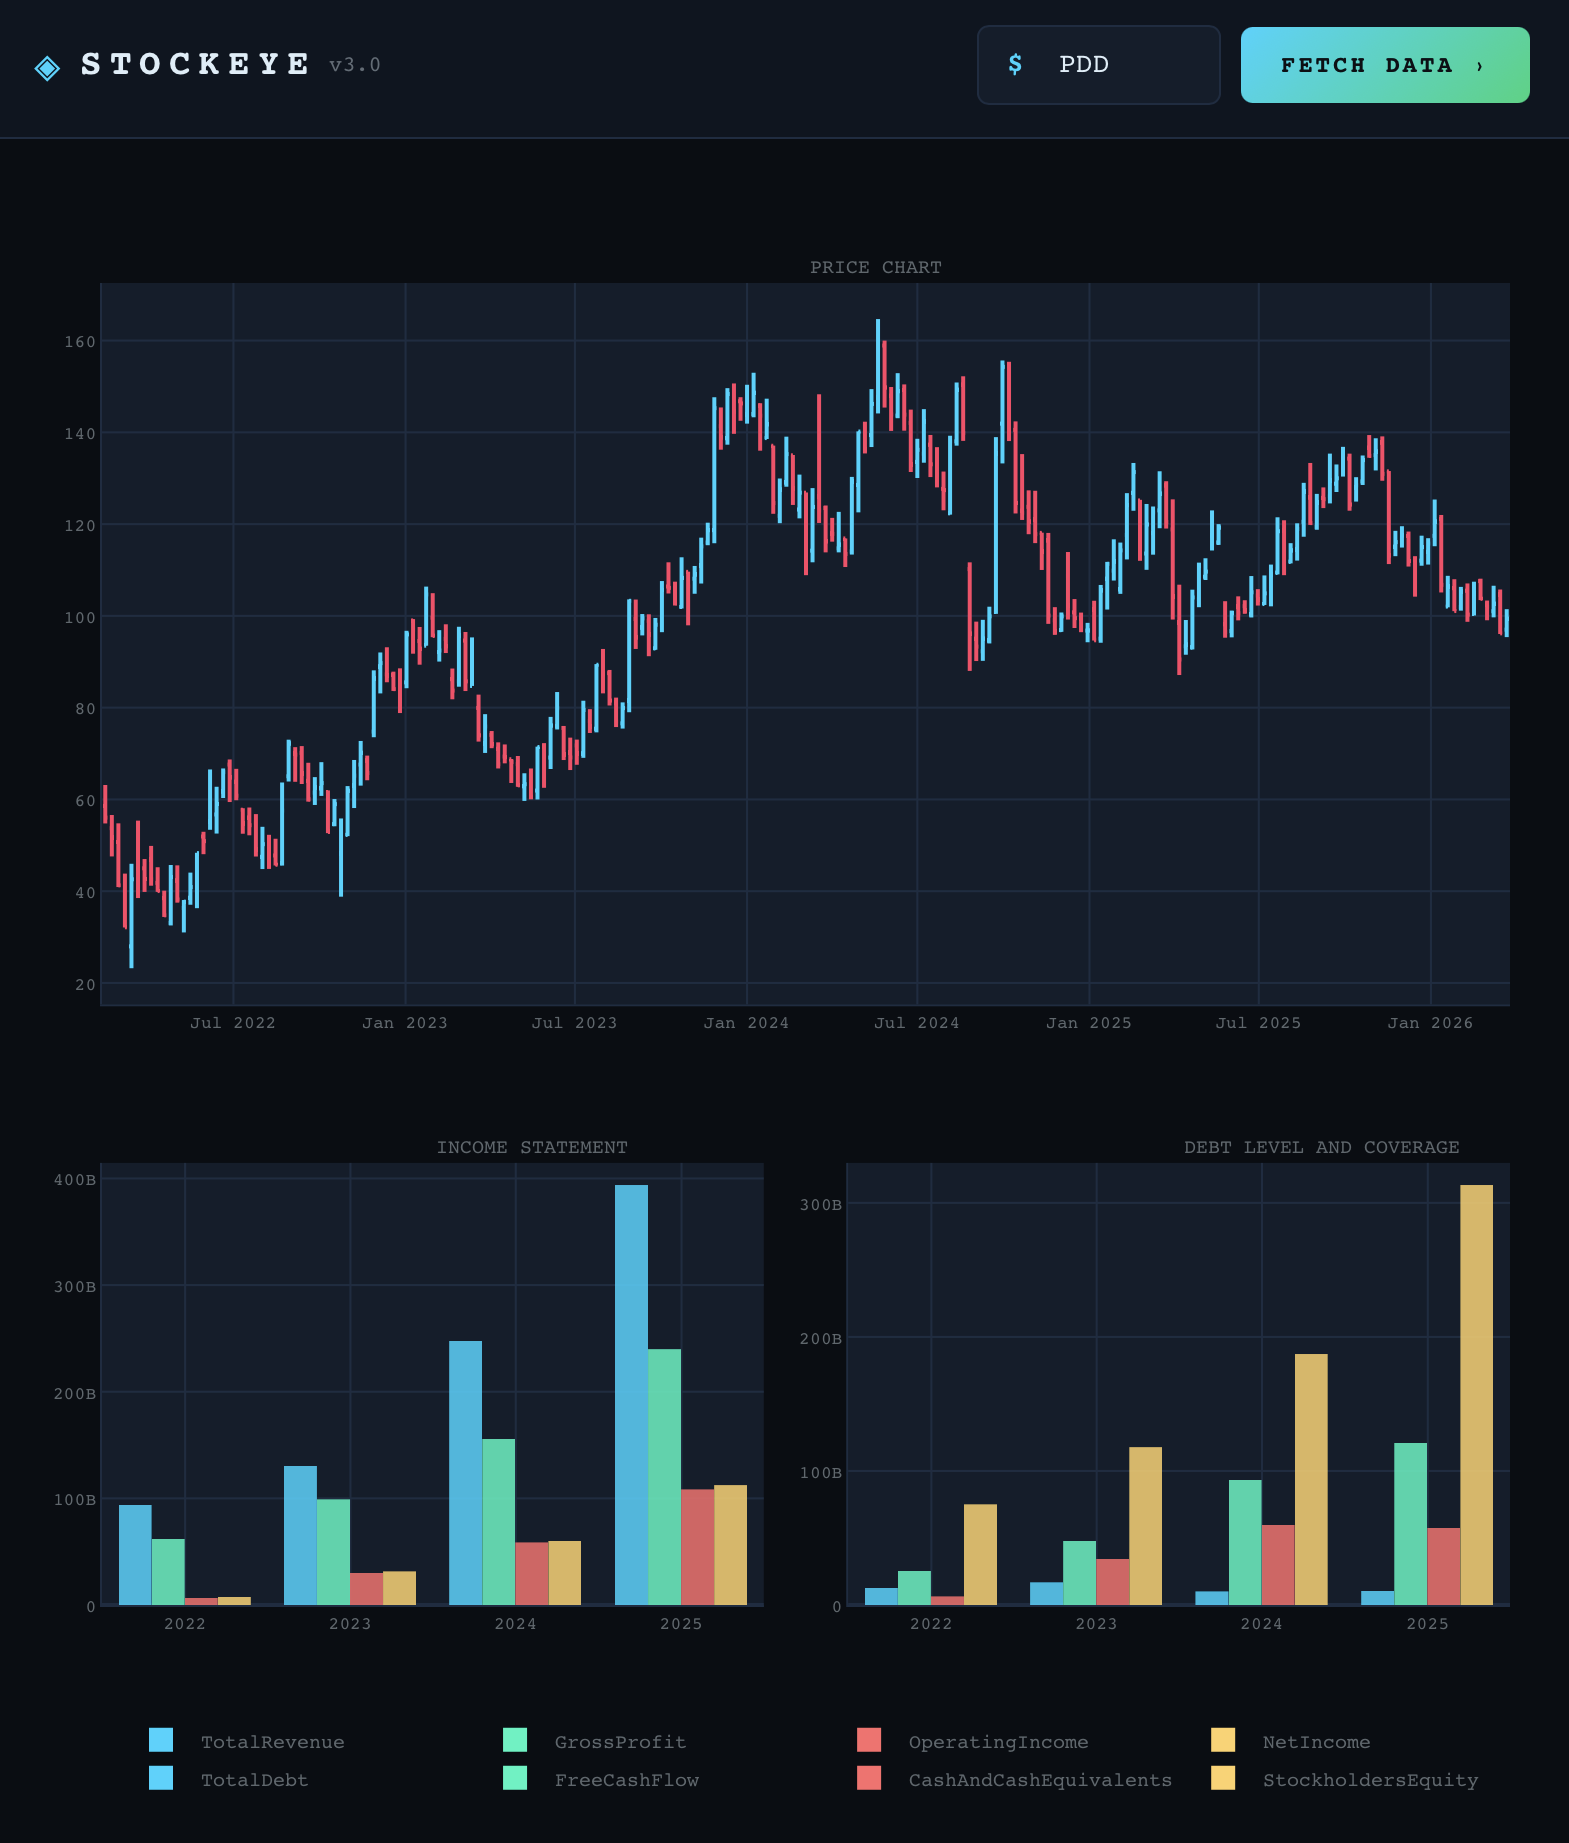
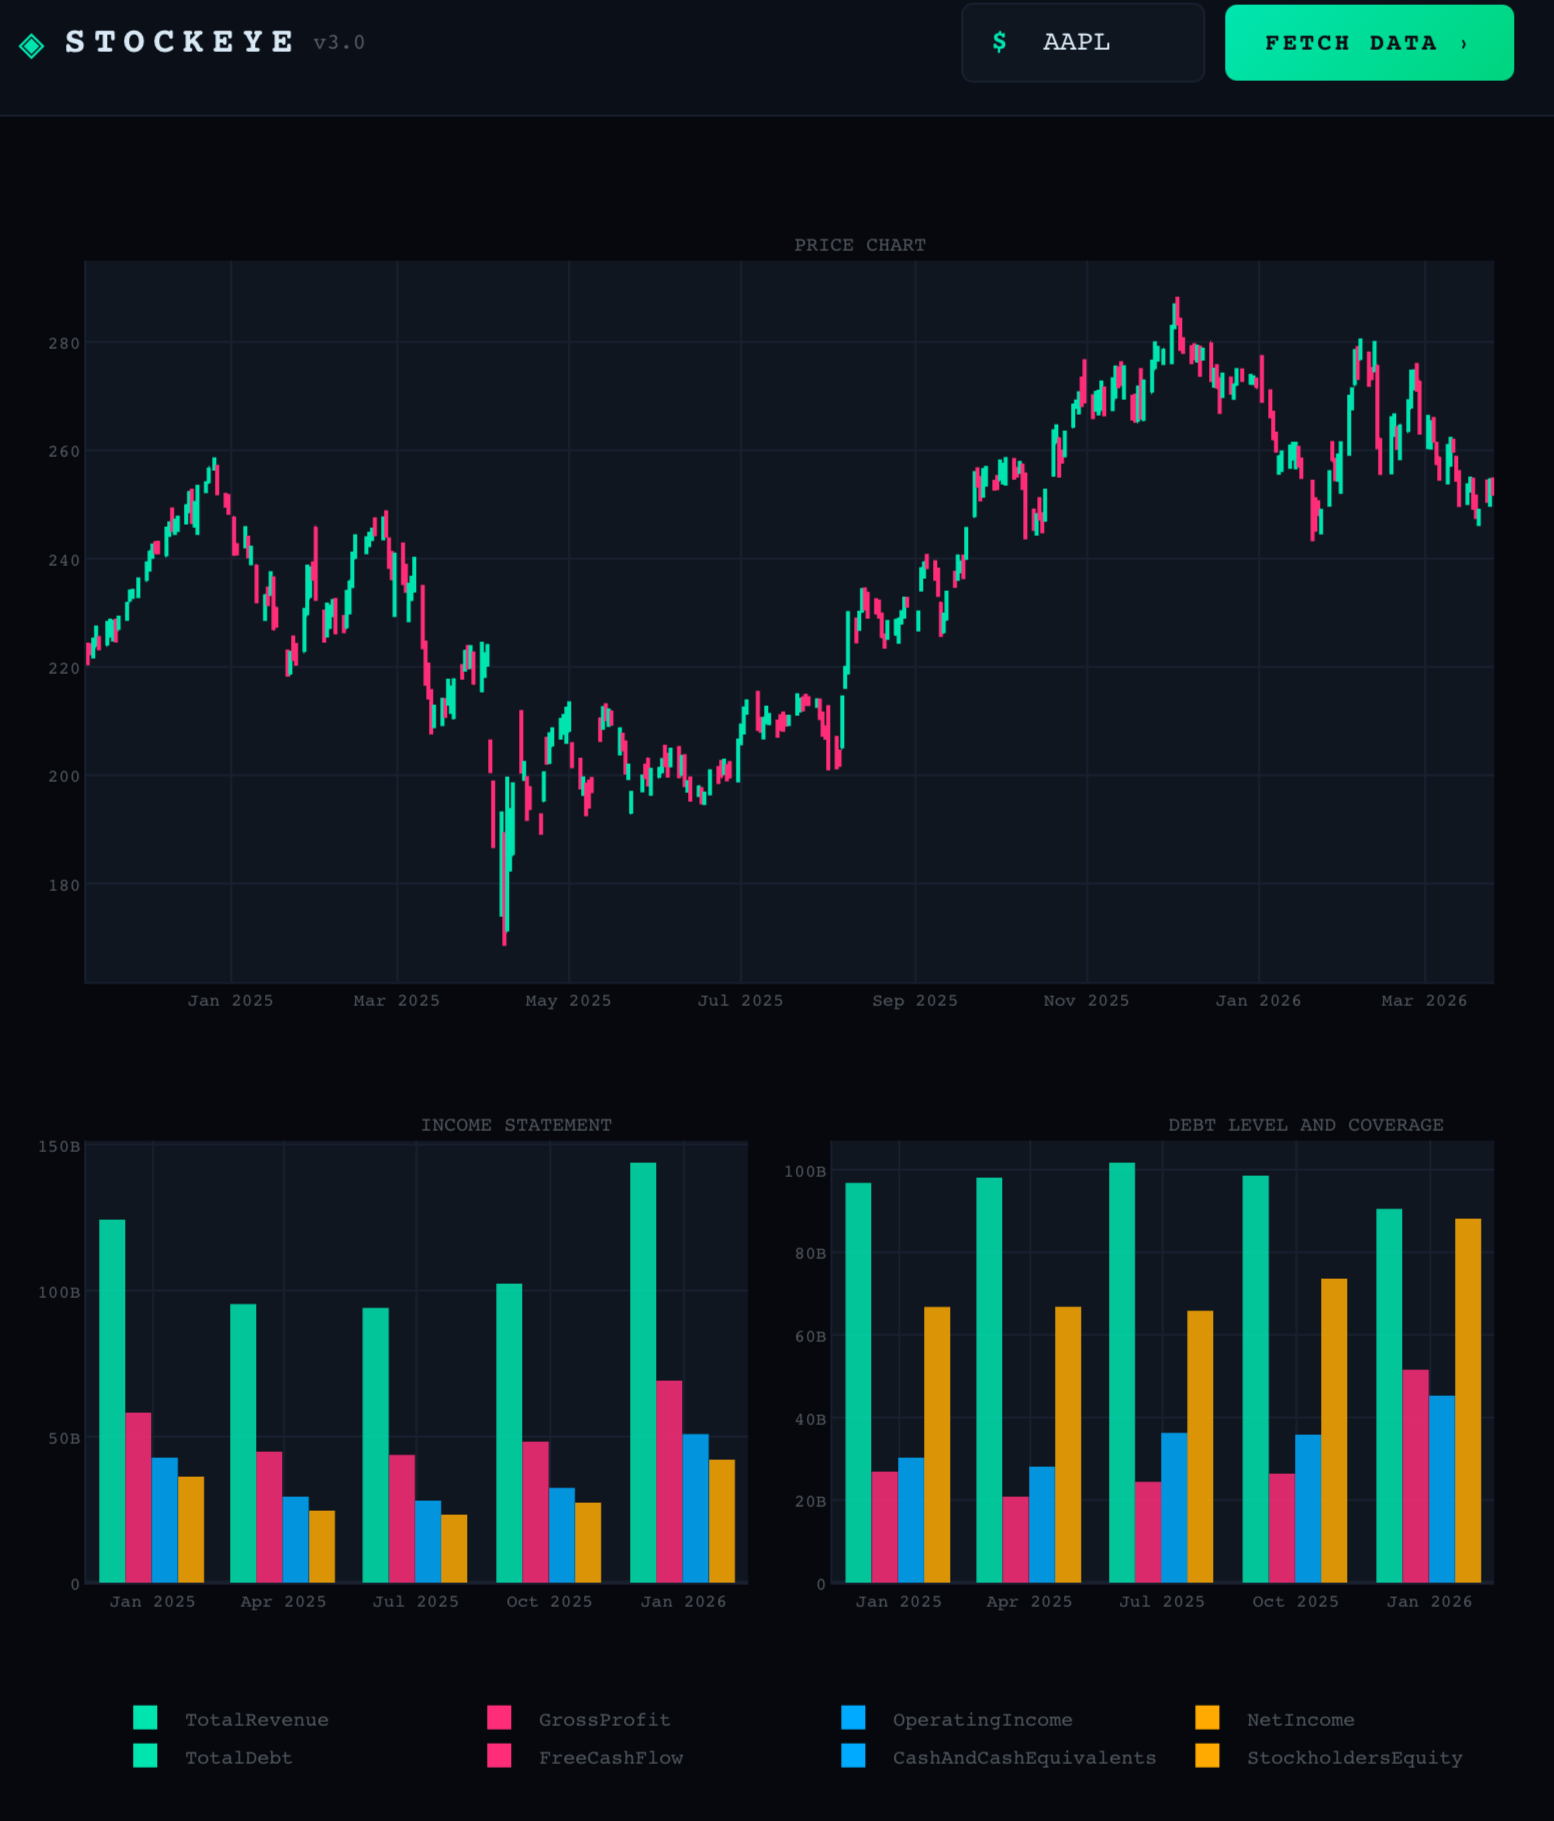
Add files via upload

diff --git a/app.py b/app.py
@@ -10,15 +10,16 @@ from datetime import datetime, timedelta
 app = Dash(__name__)
 database = Database("stockdata")
 
-BG          = "#090d12"
-SURFACE     = "#0e1520"
-SURFACE2    = "#131d2b"
-BORDER      = "#1c2d42"
-ACCENT      = "#00d4ff"      
-ACCENT2     = "#0ff5c0"        
-TEXT        = "#ddeef8"
-TEXT_DIM    = "rgba(221,238,248,0.4)"
+BG          = "#06080d"
+SURFACE     = "#0b0f17"
+SURFACE2    = "#10161f"
+BORDER      = "#182030"
+ACCENT      = "#00e5b0"     
+ACCENT2     = "#ff2d78"           
+TEXT        = "#d8e8f5"
+TEXT_DIM    = "rgba(216,232,245,0.35)"
 FONT        = "JetBrains Mono, Fira Mono, monospace"
+
 
 app.layout = html.Div([
 
@@ -131,12 +132,12 @@ app.layout = html.Div([
 )
 def update_graph(n_clicks: int, symbol: str) -> go.Figure:
     tables = database.getTableNames()
-    interval = "1wk"
-    frequency = "yearly"
+    interval = "1d"
+    frequency = "quarterly"
     name_price = f"{symbol}_{interval}"
     name_fundamental = f"{symbol}_{frequency}"
 
-    palette = [ACCENT, ACCENT2, "#ff6b6b", "#ffd166", "#06d6a0", "#118ab2"]
+    palette = [ACCENT, ACCENT2, "#00aaff", "#ffaa00", "#bf5fff", "#ff6b35"]
 
     fig = make_subplots(
         rows=2,
@@ -205,7 +206,7 @@ def update_graph(n_clicks: int, symbol: str) -> go.Figure:
         fundamental = database.getTable(name_fundamental)
 
     if name_price not in tables:
-        pricedata = yf.download(symbol, interval=interval, start=datetime.now()-timedelta(days=1500),
+        pricedata = yf.download(symbol, interval=interval, start=datetime.now()-timedelta(days=500),
                                 end=datetime.now(), auto_adjust=True, multi_level_index=False)
         database.addTable(name_price, pricedata)
     else:
@@ -219,7 +220,7 @@ def update_graph(n_clicks: int, symbol: str) -> go.Figure:
             low=pricedata.Low,
             close=pricedata.Close,
             increasing_line_color=ACCENT,
-            decreasing_line_color="#ff4466",
+            decreasing_line_color=ACCENT2,
             hovertemplate=(
                 "<b>%{x}</b><br>"
                 "O %{open:.2f}  H %{high:.2f}<br>"
@@ -249,7 +250,7 @@ def update_graph(n_clicks: int, symbol: str) -> go.Figure:
             ), row=2, col=1
         )
 
-    group2 = ["TotalDebt", "FreeCashFlow", "CashAndCashEquivalents"]
+    group2 = ["TotalDebt", "FreeCashFlow", "CashAndCashEquivalents", "StockholdersEquity"]
     for n, bar in enumerate(group2):
         try:
             bardata = fundamental[bar].dropna()

diff --git a/README.md b/README.md
@@ -10,9 +10,9 @@ The focus is on multiple dynamics: situations where valuation multiples have com
 
 ## What it shows
 
-- **Price chart** — Monthly OHLC candlestick chart for the past 1500 days
+- **Price chart** — Weekly OHLC candlestick chart for the past 500 days
 - **Income Statement** — Revenue, Gross Profit, Operating Income and Net Income over the last quarters
-- **Debt Level And Coverage** — Total Debt, Free-Cash-Flow and Cash & Cash-Equivalents over the same period
+- **Debt Level And Coverage** — Total Debt, Free-Cash-Flow, Cash & Cash-Equivalents and Stockholders' Equity over the same period
 
 ## Usage
 
